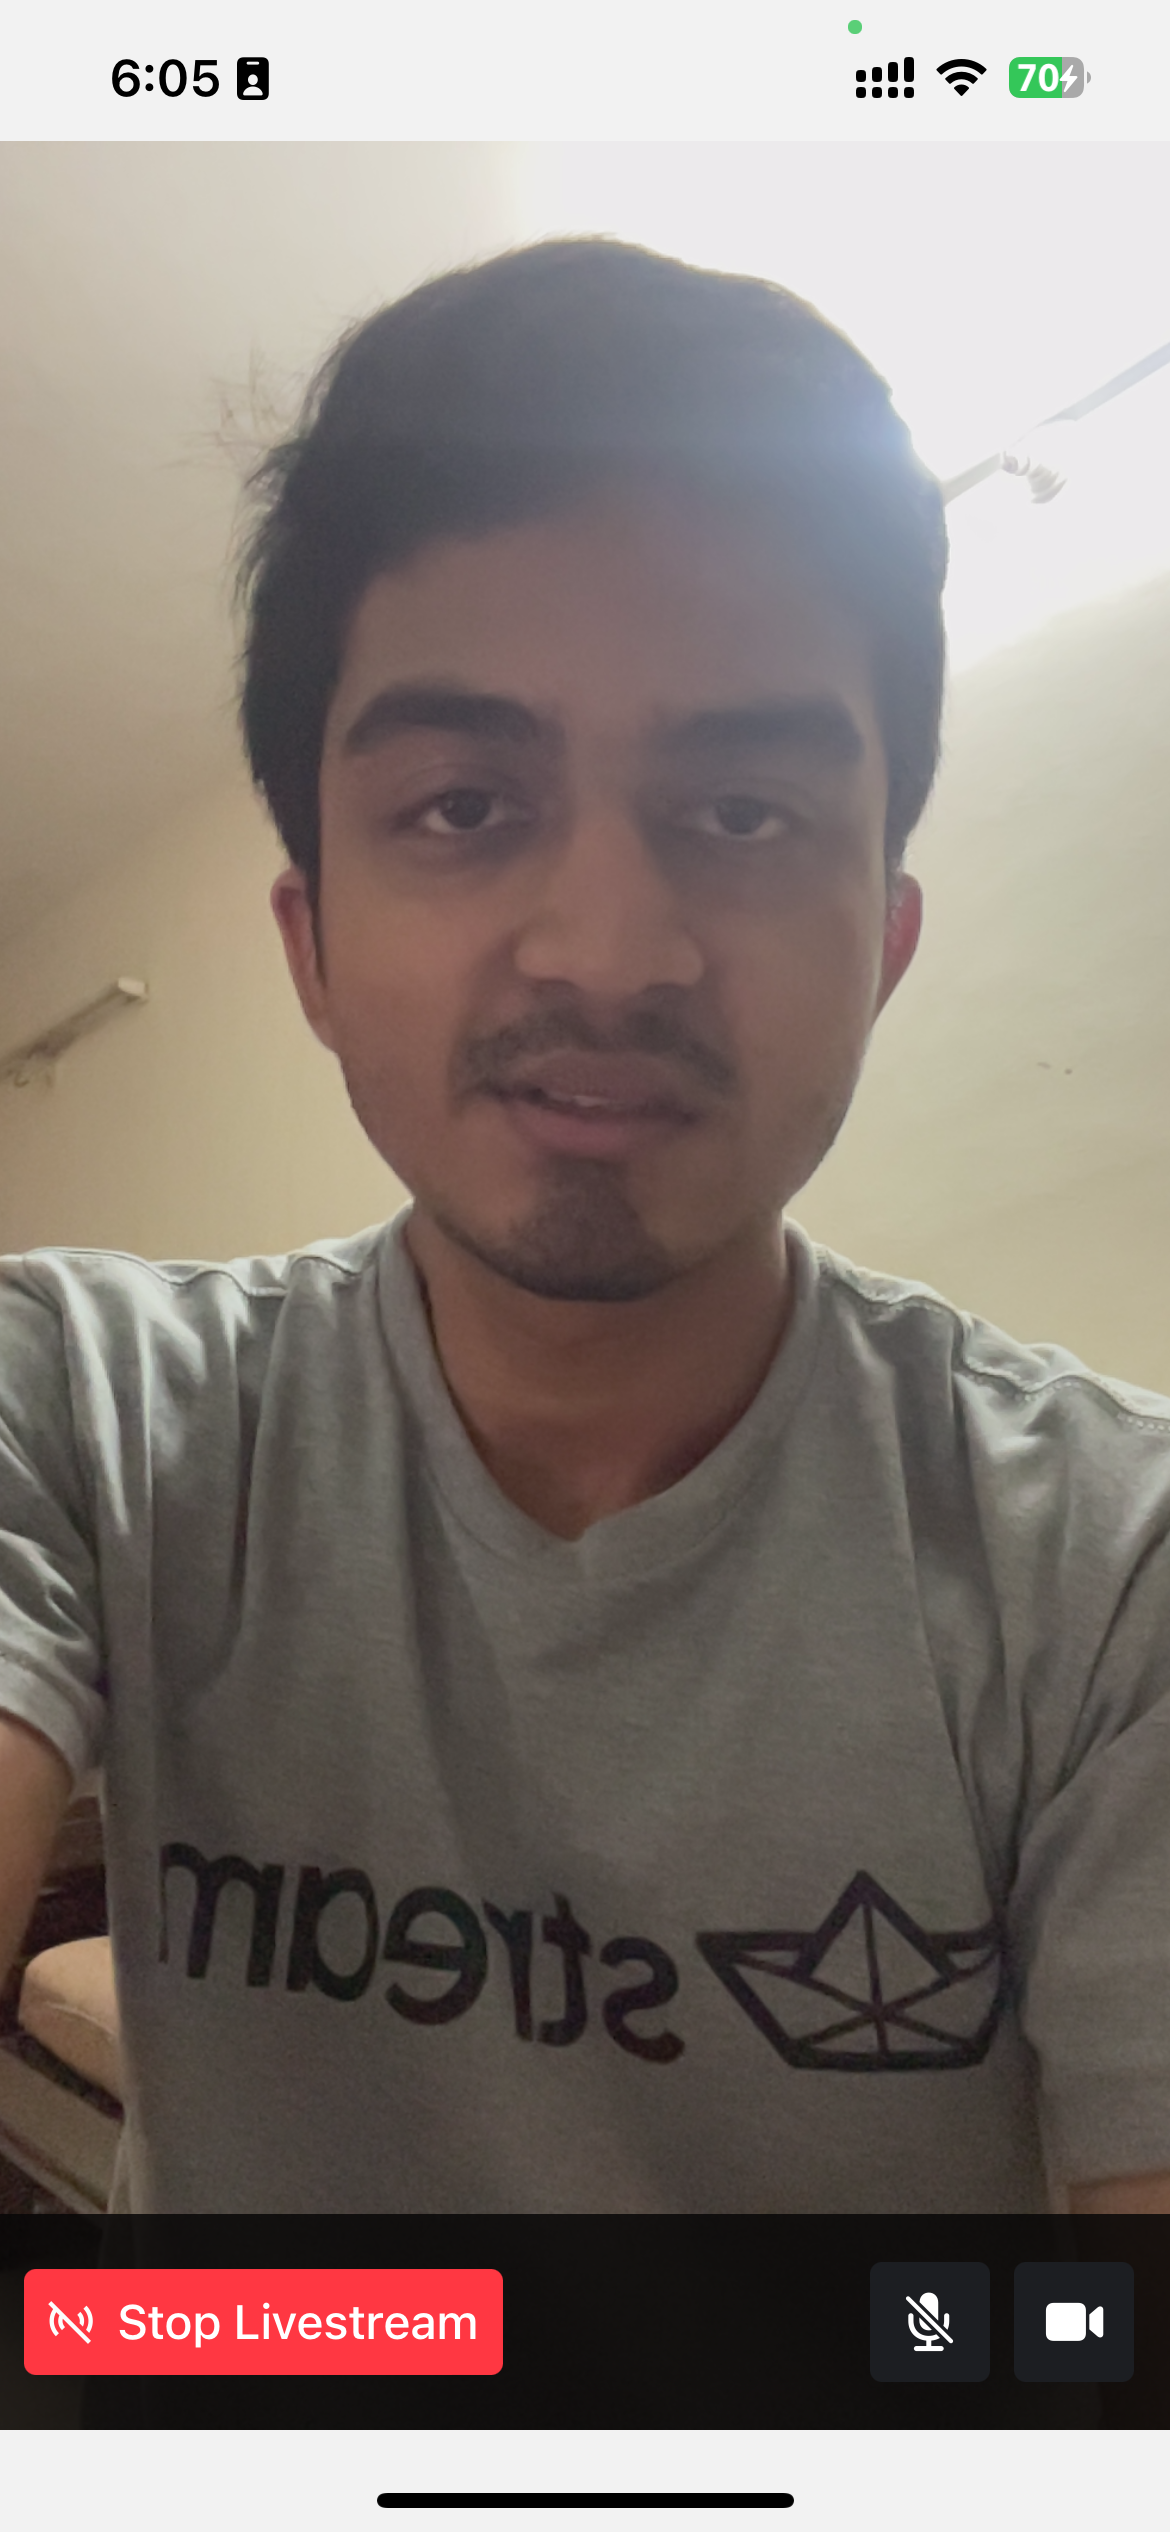
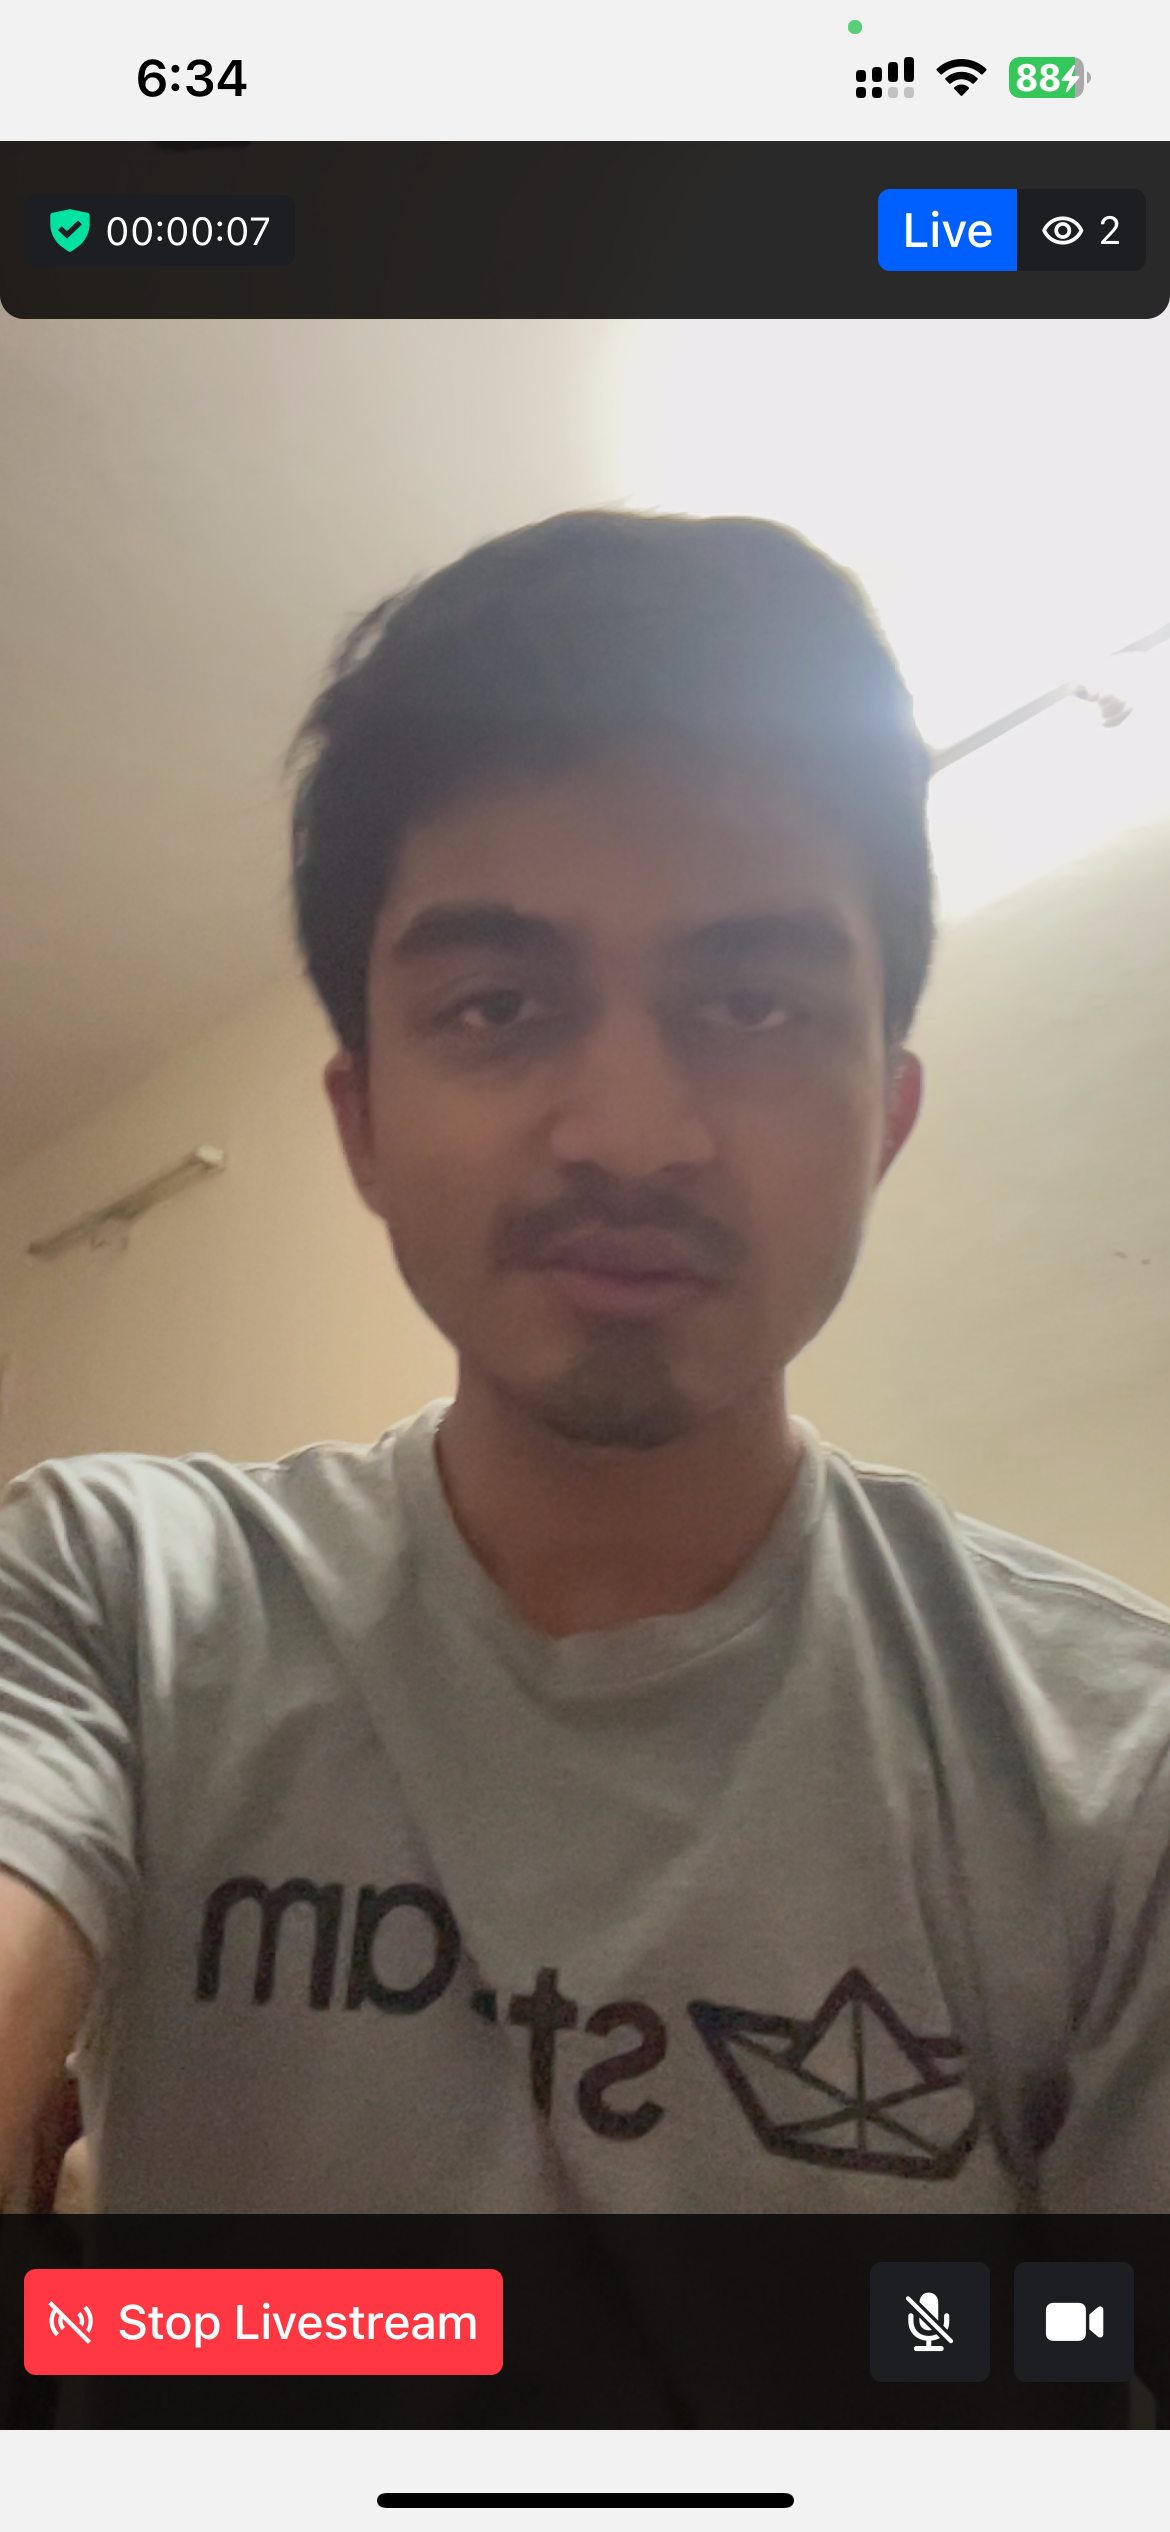
fix: change screen shots

diff --git a/packages/react-native-sdk/src/components/Livestream/LiveStreamTopView/HostLiveStreamTopView.tsx b/packages/react-native-sdk/src/components/Livestream/LiveStreamTopView/HostLiveStreamTopView.tsx
@@ -14,6 +14,7 @@ import {
 } from './FollowerCount';
 import { useTheme } from '../../../contexts';
 import { useCallStateHooks } from '@stream-io/video-react-bindings';
+import { Z_INDEX } from '../../../constants';
 
 /**
  * Props for the HostLiveStreamTopView component.
@@ -84,6 +85,7 @@ const styles = StyleSheet.create({
     paddingHorizontal: 8,
     borderBottomEndRadius: 8,
     borderBottomStartRadius: 8,
+    zIndex: Z_INDEX.IN_FRONT,
   },
   liveInfo: {
     flexDirection: 'row',

diff --git a/packages/react-native-sdk/src/components/Livestream/LiveStreamControls/HostLiveStreamControls.tsx b/packages/react-native-sdk/src/components/Livestream/LiveStreamControls/HostLiveStreamControls.tsx
@@ -9,6 +9,7 @@ import {
   LiveStreamMediaControlsProps,
 } from './LiveStreamMediaControls';
 import { useTheme } from '../../../contexts';
+import { Z_INDEX } from '../../../constants';
 
 /**
  * Props for the HostLiveStreamControls component.
@@ -73,6 +74,7 @@ const styles = StyleSheet.create({
     alignItems: 'center',
     paddingVertical: 16,
     paddingHorizontal: 8,
+    zIndex: Z_INDEX.IN_FRONT,
   },
   leftElement: {
     flex: 1,
